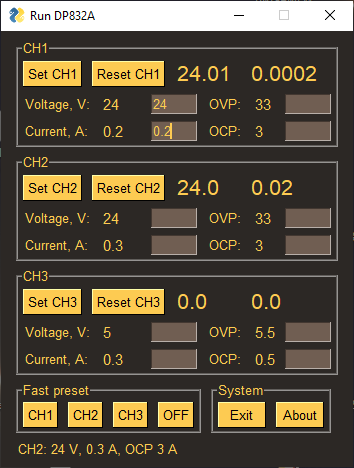
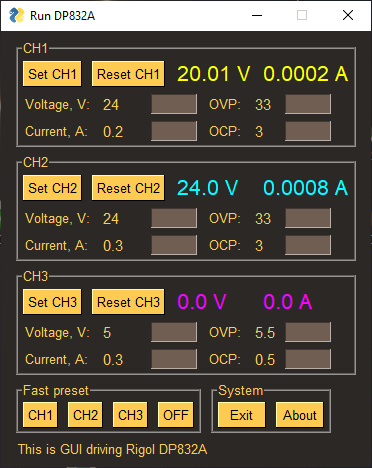
Доработка скрипта

diff --git a/PS_DP832A.py b/PS_DP832A.py
@@ -13,22 +13,20 @@ import pyvisa
 import time
 
 sg.theme('Dark Amber')  # Let's set our own color theme
-
 rm = pyvisa.ResourceManager()
-psu = rm.open_resource('USB0::0x1AB1::0x0E11::DP8B241601290::INSTR')
 
-work_mode = 'CH1'
+try: 
+  psu = rm.open_resource('USB0::0x1AB1::0x0E11::DP8B241601290::INSTR')
+except:
+  sg.popup('Error: Not connection DP832A')  
+  
+#sg.theme_previewer() # Просмотр всех доступных тем
 
-# sg.theme_previewer() # Просмотр всех доступных тем
-
-
-#--------------------------GLOBAL VARIABLES-----------------------------------
+#--------------------------GLOBAL VARIABLES------------------------------------------
 # https://proglib.io/p/python-oop
 
-delay = 0.01
-power = 0
-volt = 0
-current = 0
+work_mode = 'CH1'
+delayAfterMeasurement = 0.01
 
 class canal_DP832(object): # Создали класс 
   voltage = 0 # Свойства классов
@@ -60,15 +58,15 @@ ch3.current = 0.3
 ch3.ovp = 5.5
 ch3.ocp = 0.5
 
-layout =  [ [sg.Frame('CH1', [[sg.Button('Set CH1'), sg.Button('Reset CH1'), sg.Text(f'{ch1.measVolt}', size=(5, 1), font=('Helvetica', 16), key='-OUTPUT_VOLT_1-'), sg.Text(f'{ch1.measCurrent}', size=(6, 1), font=('Helvetica', 16), key='-OUTPUT_CURR_1-')], 
+layout =  [ [sg.Frame('CH1', [[sg.Button('Set CH1'), sg.Button('Reset CH1'), sg.Text(f'{ch1.measVolt}', size=(6, 1), font=('Helvetica', 16), key='-OUTPUT_VOLT_1-', text_color='yellow'), sg.Text(f'{ch1.measCurrent}', size=(7, 1), font=('Helvetica', 16), key='-OUTPUT_CURR_1-', text_color='yellow')], 
             [sg.Text('Voltage, V:', size=(8, 1)), sg.Text(f'{ch1.voltage}', size=(4, 1), font=('Helvetica 11'), key='voltage_out'), sg.InputText(key='-VOLTAGE-', size=(6, 1)), sg.Text('OVP:', size=(4, 1)), sg.Text(f'{ch1_ovp}', size=(2, 1), font=('Helvetica 11'), key='OVP_out'), sg.InputText(key='-OVP-', size=(6, 1))],
             [sg.Text('Current, A:', size=(8, 1)), sg.Text(f'{ch1.current}', size=(4, 1), font=('Helvetica 11'), key='current_out'), sg.InputText(key='-CURRENT-', size=(6, 1)), sg.Text('OCP:', size=(4, 1)), sg.Text(f'{ch1_ocp}', size=(2, 1), font=('Helvetica 11'), key='OCP_out'), sg.InputText(key='-OCP-', size=(6, 1))]])],
             
-            [sg.Frame('CH2', [[sg.Button('Set CH2'), sg.Button('Reset CH2'), sg.Text(f'{ch2.measVolt}', size=(5, 1), font=('Helvetica', 16), key='-OUTPUT_VOLT_2-'), sg.Text(f'{ch2.measCurrent}', size=(6, 1), font=('Helvetica', 16), key='-OUTPUT_CURR_2-')], 
+            [sg.Frame('CH2', [[sg.Button('Set CH2'), sg.Button('Reset CH2'), sg.Text(f'{ch2.measVolt}', size=(6, 1), font=('Helvetica', 16), key='-OUTPUT_VOLT_2-', text_color = 'cyan'), sg.Text(f'{ch2.measCurrent}', size=(7, 1), font=('Helvetica', 16), key='-OUTPUT_CURR_2-', text_color = 'cyan')], 
             [sg.Text('Voltage, V:', size=(8, 1)), sg.Text(f'{ch2.voltage}', size=(4, 1), font=('Helvetica 11'), key='voltage_out2'), sg.InputText(key='-VOLTAGE2-', size=(6, 1)), sg.Text('OVP:', size=(4, 1)), sg.Text(f'{ch2_ovp}', size=(2, 1), font=('Helvetica 11'), key='OVP_out2'), sg.InputText(key='-OVP2-', size=(6, 1))],
             [sg.Text('Current, A:', size=(8, 1)), sg.Text(f'{ch2.current}', size=(4, 1), font=('Helvetica 11'), key='current_out2'), sg.InputText(key='-CURRENT2-', size=(6, 1)), sg.Text('OCP:', size=(4, 1)), sg.Text(f'{ch2_ocp}', size=(2, 1), font=('Helvetica 11'), key='OCP_out2'), sg.InputText(key='-OCP2-', size=(6, 1))]])],
             
-            [sg.Frame('CH3', [[sg.Button('Set CH3'), sg.Button('Reset CH3'), sg.Text(f'{ch3.measVolt}', size=(5, 1), font=('Helvetica', 16), key='-OUTPUT_VOLT_3-'), sg.Text(f'{ch3.measCurrent}', size=(6, 1), font=('Helvetica', 16), key='-OUTPUT_CURR_3-')], 
+            [sg.Frame('CH3', [[sg.Button('Set CH3'), sg.Button('Reset CH3'), sg.Text(f'{ch3.measVolt}', size=(6, 1), font=('Helvetica', 16), key='-OUTPUT_VOLT_3-', text_color = 'magenta'), sg.Text(f'{ch3.measCurrent}', size=(7, 1), font=('Helvetica', 16), key='-OUTPUT_CURR_3-', text_color = 'magenta')], 
             [sg.Text('Voltage, V:', size=(8, 1)), sg.Text(f'{ch3.voltage} ', size=(4, 1), font=('Helvetica 11'), key='voltage_out3'), sg.InputText(key='-VOLTAGE3-', size=(6, 1)), sg.Text('OVP:', size=(4, 1)), sg.Text(f'{ch3.ovp}', size=(2, 1), font=('Helvetica 11'), key='OVP_out3'), sg.InputText(key='-OVP3-', size=(6, 1))],
             [sg.Text('Current, A:', size=(8, 1)), sg.Text(f'{ch3.current}', size=(4, 1), font=('Helvetica 11'), key='current_out3'), sg.InputText(key='-CURRENT3-', size=(6, 1)), sg.Text('OCP:', size=(4, 1)), sg.Text(f'{ch3.ocp}', size=(2, 1), font=('Helvetica 11'), key='OCP_out3'), sg.InputText(key='-OCP3-', size=(6, 1))]])],
             
@@ -141,21 +139,21 @@ def measVolt (chan):
     cmd1 = ':MEAS:VOLT? CH%s' %chan
     V = psu.query(cmd1)
     V = float(V)
-    time.sleep(delay)
+    time.sleep(delayAfterMeasurement)
     return V
 
 def measCurrent (chan): 			
     cmd1 = ':MEAS:CURR? CH%s' %chan
     C = psu.query(cmd1)
     C = float(C)
-    time.sleep(delay)
+    time.sleep(delayAfterMeasurement)
     return C
 
 def measPower (chan): 			
     cmd1 = ':MEAS:POWE? CH%s' %chan
     P = psu.query(cmd1)
     P = float(P)
-    time.sleep(delay)
+    time.sleep(delayAfterMeasurement)
     return P
 
 def debugOut (): 			
@@ -179,12 +177,12 @@ def mainMeas ():
     #debugOut ()
     
 def screenUpdateValue ():
-    window['-OUTPUT_VOLT_1-'].update(ch1.measVolt)  
-    window['-OUTPUT_CURR_1-'].update(ch1.measCurrent) 
-    window['-OUTPUT_VOLT_2-'].update(ch2.measVolt)  
-    window['-OUTPUT_CURR_2-'].update(ch2.measCurrent) 
-    window['-OUTPUT_VOLT_3-'].update(ch3.measVolt)  
-    window['-OUTPUT_CURR_3-'].update(ch3.measCurrent)    
+    window['-OUTPUT_VOLT_1-'].update(str(ch1.measVolt) + " V") 
+    window['-OUTPUT_CURR_1-'].update(str(ch1.measCurrent) + " A") 
+    window['-OUTPUT_VOLT_2-'].update(str(ch2.measVolt) + " V")  
+    window['-OUTPUT_CURR_2-'].update(str(ch2.measCurrent) + " A") 
+    window['-OUTPUT_VOLT_3-'].update(str(ch3.measVolt) + " V")  
+    window['-OUTPUT_CURR_3-'].update(str(ch3.measCurrent) + " A")    
   
 #--------------------------------MAIN------------------------------------------------
  
@@ -194,8 +192,8 @@ window = sg.Window('Run DP832A', layout)
 # STEP3 - the event loop
 while True:
   
-    event, values = window.read(timeout=200)   # Read the event that happened and the values dictionary, timeout=100 - не блокирующий режим  
-    print(event, values)
+    event, values = window.read(timeout=200)   # Read the event that happened and the values dictionary, timeout=200 - не блокирующий режим  
+    #print(event, values) #DEBUG
     
     if event == sg.WIN_CLOSED or event == 'Exit':     # If user closed window with X or if user clicked "Exit" button then exit
         break
